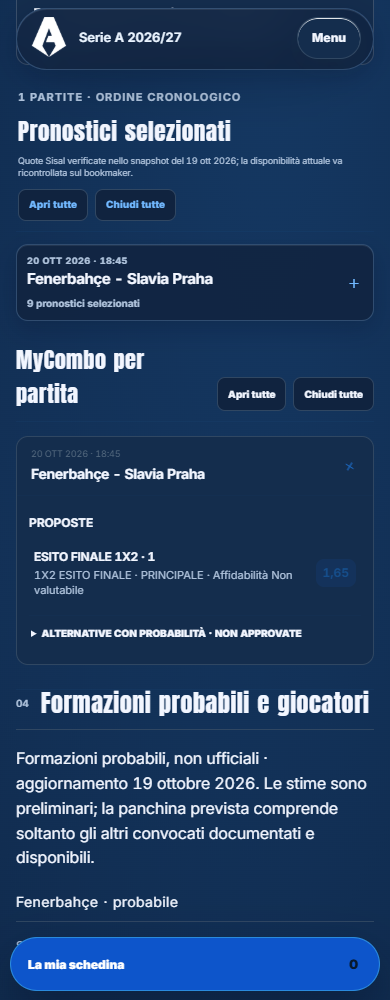
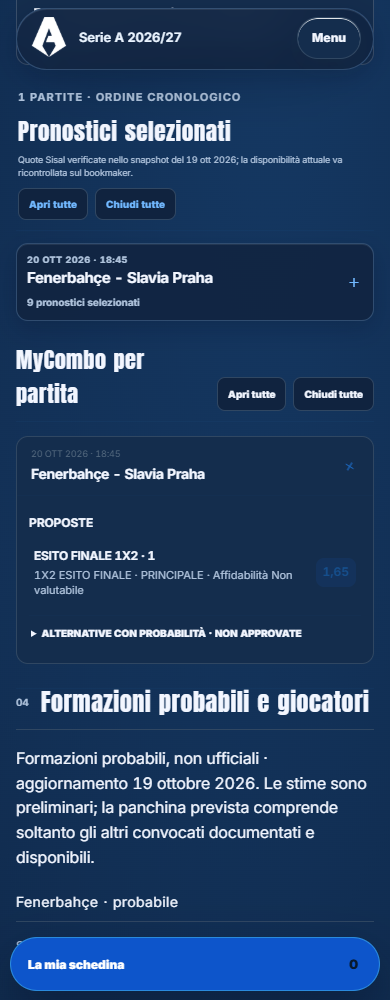
probabili formazio

diff --git a/champions-league.html b/champions-league.html
@@ -1,2 +1,2 @@
 <!doctype html>
-<html lang="it"><head><meta charset="utf-8"><meta name="viewport" content="width=device-width,initial-scale=1"><meta name="description" content="Serie A e Coppa Italia 2026/27: Champions League"><title>Champions League | Serie A 2026/27</title><link rel="preconnect" href="https://fonts.googleapis.com"><link rel="preconnect" href="https://fonts.gstatic.com" crossorigin><link href="https://fonts.googleapis.com/css2?family=Anton&family=Inter:ital,opsz,wght@0,14..32,100..900;1,14..32,100..900&display=swap" rel="stylesheet"><link rel="stylesheet" href="css/tokens.css?v=8e5e237f7140"><link rel="stylesheet" href="css/base.css?v=e8e6e397f0ee"><link rel="stylesheet" href="css/layout.css?v=c7310d8c4d5a"><link rel="stylesheet" href="css/components.css?v=e54dcc2d74de"><link rel="stylesheet" href="css/home.css?v=cca17953082b"><link rel="stylesheet" href="css/matches.css?v=cd95edacd242"><link rel="stylesheet" href="css/team.css?v=44fccba6dcae"><link rel="stylesheet" href="css/players.css?v=5040064cd818"><link rel="stylesheet" href="css/fantasy.css?v=5f3afa0410d1"><link rel="stylesheet" href="css/betting.css?v=2eba542493c4"><link rel="stylesheet" href="css/responsive.css?v=eb58058fe82f"><link rel="stylesheet" href="css/buttons.css?v=c3eb7586a4f9"><link rel="stylesheet" href="css/champions.css?v=dbde952222aa"><link rel="stylesheet" href="css/site-layout.css?v=21a1bd84dd2d"><link rel="stylesheet" href="css/page-background.css?v=1259bbd226eb"><link rel="stylesheet" href="css/player-statistics.css?v=afedd88d184c"><link rel="stylesheet" href="css/component-system.css?v=6e097e6f5e51"><link rel="stylesheet" href="css/reading-detail.css?v=24dcb9a6963c" data-reading-detail-css><script src="js/public-presentation.js?v=20261016-public-policy"></script></head><body data-page="champions"><script src="js/initial-presentation.js?v=7167ca25b816"></script><header id="site-top" class="site-header"><a class="brand" href="index.html"><span class="brand-mark"><img src="assets/images/serie-a-logo-mark.png" alt=""></span><span><strong>Serie A 2026/27</strong><small>Campionato e Coppa Italia</small></span></a><button class="menu-button" type="button" aria-controls="site-nav" aria-expanded="false">Menu</button><nav id="site-nav" class="site-nav" aria-label="Navigazione principale"><a class="page-link" data-page-link="home" href="index.html">Home</a><a class="page-link" data-page-link="team-stats" href="statistiche-squadre.html">Squadre</a><a class="page-link" data-page-link="player-stats" href="statistiche-giocatori.html">Giocatori</a><a class="page-link" data-page-link="readings" href="lettura.html">Lettura</a><a class="page-link" data-page-link="cup" href="coppa-italia.html">Coppa Italia</a><a class="page-link active" data-page-link="champions" href="champions-league.html">Champions League</a><a class="page-link" data-page-link="betting" href="schedina.html">Schedina</a></nav></header><main id="app" tabindex="-1"><section class="loading"><p class="eyebrow">Caricamento</p><h1>Champions League</h1></section></main><footer class="site-footer"><div class="site-footer-inner"><div class="site-footer-top"><div class="site-footer-intro"><a class="footer-brand" href="index.html"><span class="footer-brand-mark"><img src="assets/images/serie-a-logo-mark.png" alt=""></span><span><strong>Serie A 2026/27</strong><small>Campionato e Coppa Italia</small></span></a><p>Calendario, rose, statistiche e letture della stagione raccolti in un unico spazio.</p><span class="footer-season">Stagione 2026/27</span></div><nav class="footer-nav" aria-label="Navigazione nel footer"><div><strong>Campionato</strong><a href="index.html">Home</a><a href="statistiche-squadre.html">Squadre</a><a href="statistiche-giocatori.html">Giocatori</a></div><div><strong>Approfondimenti</strong><a href="lettura.html">Lettura</a><a href="coppa-italia.html">Coppa Italia</a><a href="champions-league.html">Champions League</a><a href="schedina.html">Schedina</a></div></nav></div><div class="site-footer-bottom"><p>Progetto statico indipendente</p><a href="#site-top">Torna su <span aria-hidden="true">↑</span></a></div></div></footer><script type="module" src="js/app.js?v=20261019-shared-schedine-v1-headings-d6a7c5359ecc"></script></body></html>
+<html lang="it"><head><meta charset="utf-8"><meta name="viewport" content="width=device-width,initial-scale=1"><meta name="description" content="Serie A e Coppa Italia 2026/27: Champions League"><title>Champions League | Serie A 2026/27</title><link rel="preconnect" href="https://fonts.googleapis.com"><link rel="preconnect" href="https://fonts.gstatic.com" crossorigin><link href="https://fonts.googleapis.com/css2?family=Anton&family=Inter:ital,opsz,wght@0,14..32,100..900;1,14..32,100..900&display=swap" rel="stylesheet"><link rel="stylesheet" href="css/tokens.css?v=8e5e237f7140"><link rel="stylesheet" href="css/base.css?v=e8e6e397f0ee"><link rel="stylesheet" href="css/layout.css?v=c7310d8c4d5a"><link rel="stylesheet" href="css/components.css?v=e54dcc2d74de"><link rel="stylesheet" href="css/home.css?v=cca17953082b"><link rel="stylesheet" href="css/matches.css?v=cd95edacd242"><link rel="stylesheet" href="css/team.css?v=44fccba6dcae"><link rel="stylesheet" href="css/players.css?v=5040064cd818"><link rel="stylesheet" href="css/fantasy.css?v=5f3afa0410d1"><link rel="stylesheet" href="css/betting.css?v=5cede5b7bd2c"><link rel="stylesheet" href="css/responsive.css?v=eb58058fe82f"><link rel="stylesheet" href="css/buttons.css?v=c3eb7586a4f9"><link rel="stylesheet" href="css/champions.css?v=dbde952222aa"><link rel="stylesheet" href="css/site-layout.css?v=21a1bd84dd2d"><link rel="stylesheet" href="css/page-background.css?v=1259bbd226eb"><link rel="stylesheet" href="css/player-statistics.css?v=afedd88d184c"><link rel="stylesheet" href="css/component-system.css?v=6e097e6f5e51"><link rel="stylesheet" href="css/reading-detail.css?v=24dcb9a6963c" data-reading-detail-css><script src="js/public-presentation.js?v=20261016-public-policy"></script></head><body data-page="champions"><script src="js/initial-presentation.js?v=7167ca25b816"></script><header id="site-top" class="site-header"><a class="brand" href="index.html"><span class="brand-mark"><img src="assets/images/serie-a-logo-mark.png" alt=""></span><span><strong>Serie A 2026/27</strong><small>Campionato e Coppa Italia</small></span></a><button class="menu-button" type="button" aria-controls="site-nav" aria-expanded="false">Menu</button><nav id="site-nav" class="site-nav" aria-label="Navigazione principale"><a class="page-link" data-page-link="home" href="index.html">Home</a><a class="page-link" data-page-link="team-stats" href="statistiche-squadre.html">Squadre</a><a class="page-link" data-page-link="player-stats" href="statistiche-giocatori.html">Giocatori</a><a class="page-link" data-page-link="readings" href="lettura.html">Lettura</a><a class="page-link" data-page-link="cup" href="coppa-italia.html">Coppa Italia</a><a class="page-link active" data-page-link="champions" href="champions-league.html">Champions League</a><a class="page-link" data-page-link="betting" href="schedina.html">Schedina</a></nav></header><main id="app" tabindex="-1"><section class="loading"><p class="eyebrow">Caricamento</p><h1>Champions League</h1></section></main><footer class="site-footer"><div class="site-footer-inner"><div class="site-footer-top"><div class="site-footer-intro"><a class="footer-brand" href="index.html"><span class="footer-brand-mark"><img src="assets/images/serie-a-logo-mark.png" alt=""></span><span><strong>Serie A 2026/27</strong><small>Campionato e Coppa Italia</small></span></a><p>Calendario, rose, statistiche e letture della stagione raccolti in un unico spazio.</p><span class="footer-season">Stagione 2026/27</span></div><nav class="footer-nav" aria-label="Navigazione nel footer"><div><strong>Campionato</strong><a href="index.html">Home</a><a href="statistiche-squadre.html">Squadre</a><a href="statistiche-giocatori.html">Giocatori</a></div><div><strong>Approfondimenti</strong><a href="lettura.html">Lettura</a><a href="coppa-italia.html">Coppa Italia</a><a href="champions-league.html">Champions League</a><a href="schedina.html">Schedina</a></div></nav></div><div class="site-footer-bottom"><p>Progetto statico indipendente</p><a href="#site-top">Torna su <span aria-hidden="true">↑</span></a></div></div></footer><script type="module" src="js/app.js?v=20261019-shared-schedine-v1-headings-d6a7c5359ecc"></script></body></html>

diff --git a/schedina.html b/schedina.html
@@ -1,2 +1,2 @@
 <!doctype html>
-<html lang="it"><head><meta charset="utf-8"><meta name="viewport" content="width=device-width,initial-scale=1"><meta name="description" content="Serie A e Coppa Italia 2026/27: Schedina"><title>Schedina | Serie A 2026/27</title><link rel="preconnect" href="https://fonts.googleapis.com"><link rel="preconnect" href="https://fonts.gstatic.com" crossorigin><link href="https://fonts.googleapis.com/css2?family=Anton&family=Inter:ital,opsz,wght@0,14..32,100..900;1,14..32,100..900&display=swap" rel="stylesheet"><link rel="stylesheet" href="css/tokens.css?v=8e5e237f7140"><link rel="stylesheet" href="css/base.css?v=e8e6e397f0ee"><link rel="stylesheet" href="css/layout.css?v=c7310d8c4d5a"><link rel="stylesheet" href="css/components.css?v=e54dcc2d74de"><link rel="stylesheet" href="css/home.css?v=cca17953082b"><link rel="stylesheet" href="css/matches.css?v=cd95edacd242"><link rel="stylesheet" href="css/team.css?v=44fccba6dcae"><link rel="stylesheet" href="css/players.css?v=5040064cd818"><link rel="stylesheet" href="css/fantasy.css?v=5f3afa0410d1"><link rel="stylesheet" href="css/betting.css?v=2eba542493c4"><link rel="stylesheet" href="css/responsive.css?v=eb58058fe82f"><link rel="stylesheet" href="css/buttons.css?v=c3eb7586a4f9"><link rel="stylesheet" href="css/champions.css?v=dbde952222aa"><link rel="stylesheet" href="css/site-layout.css?v=21a1bd84dd2d"><link rel="stylesheet" href="css/page-background.css?v=1259bbd226eb"><link rel="stylesheet" href="css/player-statistics.css?v=afedd88d184c"><link rel="stylesheet" href="css/component-system.css?v=6e097e6f5e51"><script src="js/public-presentation.js?v=20261016-schedina-selection-rows-v2"></script></head><body data-page="betting"><script src="js/initial-presentation.js?v=7167ca25b816"></script><header id="site-top" class="site-header"><a class="brand" href="index.html"><span class="brand-mark"><img src="assets/images/serie-a-logo-mark.png" alt=""></span><span><strong>Serie A 2026/27</strong><small>Campionato e Coppa Italia</small></span></a><button class="menu-button" type="button" aria-controls="site-nav" aria-expanded="false">Menu</button><nav id="site-nav" class="site-nav" aria-label="Navigazione principale"><a class="page-link" data-page-link="home" href="index.html">Home</a><a class="page-link" data-page-link="team-stats" href="statistiche-squadre.html">Squadre</a><a class="page-link" data-page-link="player-stats" href="statistiche-giocatori.html">Giocatori</a><a class="page-link" data-page-link="readings" href="lettura.html">Lettura</a><a class="page-link" data-page-link="cup" href="coppa-italia.html">Coppa Italia</a><a class="page-link" data-page-link="champions" href="champions-league.html">Champions League</a><a class="page-link active" data-page-link="betting" href="schedina.html">Schedina</a></nav></header><main id="app" tabindex="-1"><section class="loading"><p class="eyebrow">Caricamento</p><h1>Schedina</h1></section></main><footer class="site-footer"><div class="site-footer-inner"><div class="site-footer-top"><div class="site-footer-intro"><a class="footer-brand" href="index.html"><span class="footer-brand-mark"><img src="assets/images/serie-a-logo-mark.png" alt=""></span><span><strong>Serie A 2026/27</strong><small>Campionato e Coppa Italia</small></span></a><p>Calendario, rose, statistiche e letture della stagione raccolti in un unico spazio.</p><span class="footer-season">Stagione 2026/27</span></div><nav class="footer-nav" aria-label="Navigazione nel footer"><div><strong>Campionato</strong><a href="index.html">Home</a><a href="statistiche-squadre.html">Squadre</a><a href="statistiche-giocatori.html">Giocatori</a></div><div><strong>Approfondimenti</strong><a href="lettura.html">Lettura</a><a href="coppa-italia.html">Coppa Italia</a><a href="champions-league.html">Champions League</a><a href="schedina.html">Schedina</a></div></nav></div><div class="site-footer-bottom"><p>Progetto statico indipendente</p><a href="#site-top">Torna su <span aria-hidden="true">↑</span></a></div></div></footer><script type="module" src="js/app.js?v=20261019-shared-schedine-v1-headings-d6a7c5359ecc"></script></body></html>
+<html lang="it"><head><meta charset="utf-8"><meta name="viewport" content="width=device-width,initial-scale=1"><meta name="description" content="Serie A e Coppa Italia 2026/27: Schedina"><title>Schedina | Serie A 2026/27</title><link rel="preconnect" href="https://fonts.googleapis.com"><link rel="preconnect" href="https://fonts.gstatic.com" crossorigin><link href="https://fonts.googleapis.com/css2?family=Anton&family=Inter:ital,opsz,wght@0,14..32,100..900;1,14..32,100..900&display=swap" rel="stylesheet"><link rel="stylesheet" href="css/tokens.css?v=8e5e237f7140"><link rel="stylesheet" href="css/base.css?v=e8e6e397f0ee"><link rel="stylesheet" href="css/layout.css?v=c7310d8c4d5a"><link rel="stylesheet" href="css/components.css?v=e54dcc2d74de"><link rel="stylesheet" href="css/home.css?v=cca17953082b"><link rel="stylesheet" href="css/matches.css?v=cd95edacd242"><link rel="stylesheet" href="css/team.css?v=44fccba6dcae"><link rel="stylesheet" href="css/players.css?v=5040064cd818"><link rel="stylesheet" href="css/fantasy.css?v=5f3afa0410d1"><link rel="stylesheet" href="css/betting.css?v=5cede5b7bd2c"><link rel="stylesheet" href="css/responsive.css?v=eb58058fe82f"><link rel="stylesheet" href="css/buttons.css?v=c3eb7586a4f9"><link rel="stylesheet" href="css/champions.css?v=dbde952222aa"><link rel="stylesheet" href="css/site-layout.css?v=21a1bd84dd2d"><link rel="stylesheet" href="css/page-background.css?v=1259bbd226eb"><link rel="stylesheet" href="css/player-statistics.css?v=afedd88d184c"><link rel="stylesheet" href="css/component-system.css?v=6e097e6f5e51"><script src="js/public-presentation.js?v=20261016-schedina-selection-rows-v2"></script></head><body data-page="betting"><script src="js/initial-presentation.js?v=7167ca25b816"></script><header id="site-top" class="site-header"><a class="brand" href="index.html"><span class="brand-mark"><img src="assets/images/serie-a-logo-mark.png" alt=""></span><span><strong>Serie A 2026/27</strong><small>Campionato e Coppa Italia</small></span></a><button class="menu-button" type="button" aria-controls="site-nav" aria-expanded="false">Menu</button><nav id="site-nav" class="site-nav" aria-label="Navigazione principale"><a class="page-link" data-page-link="home" href="index.html">Home</a><a class="page-link" data-page-link="team-stats" href="statistiche-squadre.html">Squadre</a><a class="page-link" data-page-link="player-stats" href="statistiche-giocatori.html">Giocatori</a><a class="page-link" data-page-link="readings" href="lettura.html">Lettura</a><a class="page-link" data-page-link="cup" href="coppa-italia.html">Coppa Italia</a><a class="page-link" data-page-link="champions" href="champions-league.html">Champions League</a><a class="page-link active" data-page-link="betting" href="schedina.html">Schedina</a></nav></header><main id="app" tabindex="-1"><section class="loading"><p class="eyebrow">Caricamento</p><h1>Schedina</h1></section></main><footer class="site-footer"><div class="site-footer-inner"><div class="site-footer-top"><div class="site-footer-intro"><a class="footer-brand" href="index.html"><span class="footer-brand-mark"><img src="assets/images/serie-a-logo-mark.png" alt=""></span><span><strong>Serie A 2026/27</strong><small>Campionato e Coppa Italia</small></span></a><p>Calendario, rose, statistiche e letture della stagione raccolti in un unico spazio.</p><span class="footer-season">Stagione 2026/27</span></div><nav class="footer-nav" aria-label="Navigazione nel footer"><div><strong>Campionato</strong><a href="index.html">Home</a><a href="statistiche-squadre.html">Squadre</a><a href="statistiche-giocatori.html">Giocatori</a></div><div><strong>Approfondimenti</strong><a href="lettura.html">Lettura</a><a href="coppa-italia.html">Coppa Italia</a><a href="champions-league.html">Champions League</a><a href="schedina.html">Schedina</a></div></nav></div><div class="site-footer-bottom"><p>Progetto statico indipendente</p><a href="#site-top">Torna su <span aria-hidden="true">↑</span></a></div></div></footer><script type="module" src="js/app.js?v=20261019-shared-schedine-v1-headings-d6a7c5359ecc"></script></body></html>

diff --git a/js/pages/betting.js b/js/pages/betting.js
@@ -397,7 +397,7 @@ export function createPage(deps){
     const economics=stats.archiveStake?championsAuditEconomics({stakeEuro:stats.archiveStake,grossReturnEuro:stats.archiveGrossReturn,profitLossEuro:stats.archiveNetProfit,roiPct:stats.archiveProfitPct,successPct:stats.archiveStake>stats.archiveVoids?stats.archiveSuccessPct:null,won:stats.archiveWins,lost:stats.archiveStake-stats.archiveWins-stats.archiveVoids,pending:stats.archivePending,void:stats.archiveVoids}):'<p class="betting-coverage">Da giocare · importo giocato, vincite, netto, ROI e successo: N/D. Simulazione di 1 € per previsione con esito verificato.</p>';
     const summary=workspace.matchday===3?`7 singole preliminari approvate · ${count} previsioni con probabilità disponibili · ${workspace.all.length} selezioni aperte. Le alternative non sono consigli approvati. Le medie di squadra non generano nuove selezioni.`:`Archivio originale · risultati conservati. Le partite concluse non ammettono nuove giocate.`;
     // Both competitions use the same rows, match panels, combo renderer and personal controller.
-    return `<section class="betting-round-page betting-round-page--workspace betting-round-page--champions" data-champions-workspace="${workspace.matchday}"><header class="betting-round-heading"><p class="eyebrow">Champions League · ${esc(workspace.season)}</p><h2>${workspace.matchday}ª giornata${fixtureId?" · pronostici e MyCombo":""}</h2></header><p class="betting-coverage">${summary}</p>${economics}<div class="betting-workspace"><div class="betting-workspace-content">${matchdayWorkspaceContent(workspace,[],matches,teams,workspace.matchday)}${myComboRoundContent(predictions,matches,teams,workspace.matchday,true)}${workspace.matchday===1&&!fixtureId?`<details><summary>Schedine originali archiviate</summary>${championsContent(workspace.source)}</details>`:""}</div><aside class="betting-personal-column" data-personal-host aria-label="Costruttore della schedina personale"></aside></div></section>`;
+    return `<section class="betting-round-page betting-round-page--workspace betting-round-page--champions" data-champions-workspace="${workspace.matchday}">${fixtureId&&workspace.matchday===3?'<header class="rd-section-heading"><span class="rd-section-number">03</span><h2>Pronostici e MyCombo</h2></header>':""}<header class="betting-round-heading"><p class="eyebrow">Champions League · ${esc(workspace.season)}</p><h2>${workspace.matchday}ª giornata${fixtureId?" · pronostici e MyCombo":""}</h2></header><p class="betting-coverage">${summary}</p>${economics}<div class="betting-workspace"><div class="betting-workspace-content">${matchdayWorkspaceContent(workspace,[],matches,teams,workspace.matchday)}${myComboRoundContent(predictions,matches,teams,workspace.matchday,true)}${workspace.matchday===1&&!fixtureId?`<details><summary>Schedine originali archiviate</summary>${championsContent(workspace.source)}</details>`:""}</div><aside class="betting-personal-column" data-personal-host aria-label="Costruttore della schedina personale"></aside></div></section>`;
   }
 
   function mountChampionsWorkspace(workspace){

diff --git a/css/betting.css b/css/betting.css
@@ -453,3 +453,6 @@ body[data-page="betting"] main>.hero .eyebrow{margin-bottom:4px;color:var(--glas
 [data-champions-workspace] .betting-mycombo-pick[aria-pressed="true"]{border-color:var(--ds-color-accent);box-shadow:inset 3px 0 var(--ds-color-accent)}
 [data-champions-workspace] .betting-mycombo-options .betting-leg--won{background:color-mix(in srgb,#168754 18%,var(--ds-color-surface));border-color:#168754}
 [data-champions-workspace] .betting-mycombo-options .betting-leg--lost{background:color-mix(in srgb,#c9323a 18%,var(--ds-color-surface));border-color:#c9323a}
+
+[data-champions-workspace] .betting-mycombo-pick>b{background:var(--ds-color-surface);color:var(--ds-color-text)}
+[data-champions-workspace] .betting-mycombo-card>summary small{color:var(--ds-color-text-muted)}
